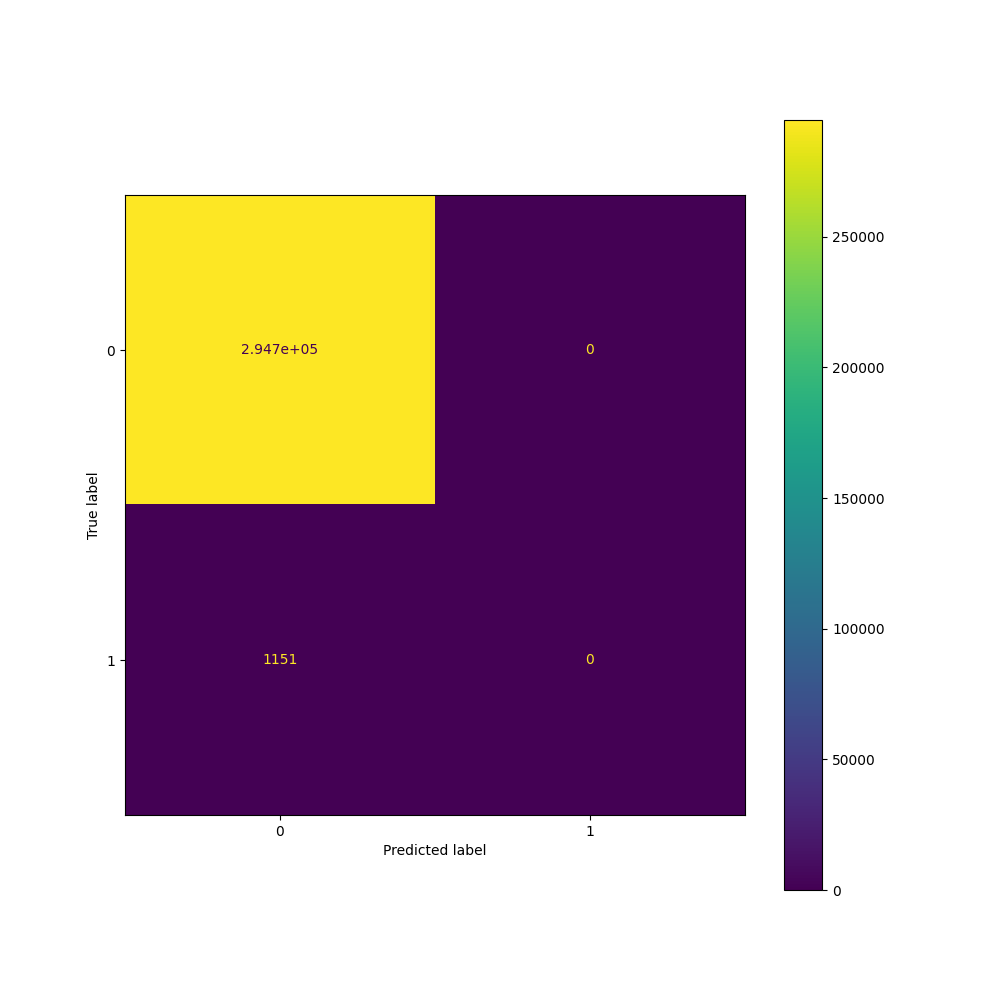
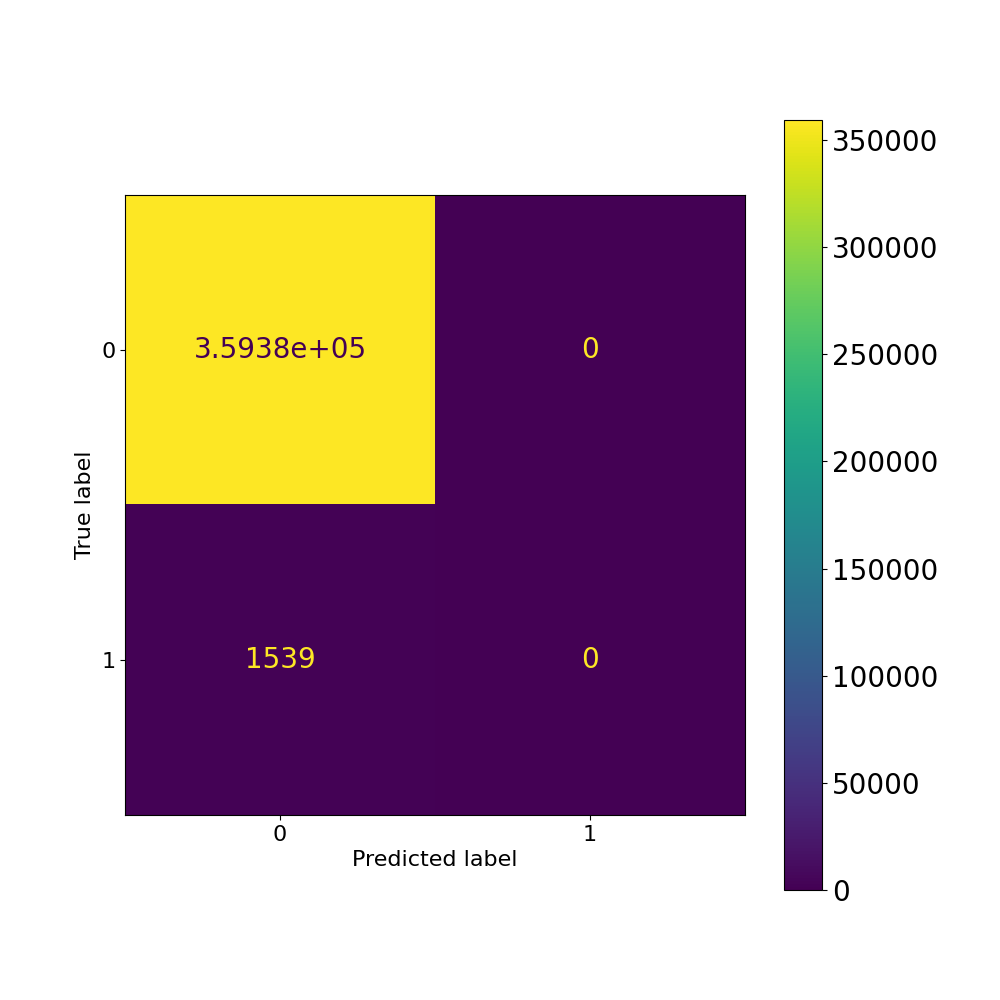
updated results

diff --git a/lstm_autoencoder.py b/lstm_autoencoder.py
@@ -3,7 +3,7 @@ from torch import nn
 import torch
 import matplotlib.pyplot as plt
 import numpy as np
-from sklearn.metrics import ConfusionMatrixDisplay, precision_score, recall_score, f1_score
+from sklearn.metrics import ConfusionMatrixDisplay
 from pump_and_dump_dataset import PumpAndDumpDataset
 from torch.utils.data import DataLoader
 
@@ -89,7 +89,7 @@ def compute_metrics(cm):
     tp = cm[1][1]
     total = tn + fp + fn + tp
 
-    accuracy = tn + tp / total * 100
+    accuracy = (tn + tp) / total * 100
     precision = tp / (tp + fp)
     recall = tp / (tp + fn)
     f1 = 2 * precision * recall / (precision + recall)
@@ -103,10 +103,11 @@ def find_best_threshold(val_dataloader, loss_fn, model):
     bestThreshold = 0
 
     with torch.no_grad():
+
         for t in thresholds:
-            for m in range(0, 100, 2):
-                t = t + t * m
-                pred, Y = zip(*[(predictPumpAndDump(X, model, loss_fn, t), Y.int().numpy())
+            for m in np.arange(0, 100, 1):
+                tm = t * sqrt(m)
+                pred, Y = zip(*[(predictPumpAndDump(X, model, loss_fn, tm), Y.int().numpy())
                                 for (X, Y) in val_dataloader])
                 pred = np.concatenate(pred)
                 Y = np.concatenate(Y)
@@ -114,20 +115,8 @@ def find_best_threshold(val_dataloader, loss_fn, model):
                 _, _, _, _, f1 = compute_metrics(cm)
 
                 if highestScore < f1:
-                    bestThreshold = t
+                    bestThreshold = tm
                     highestScore = f1
-
-            # t = bestThreshold * m
-
-            # pred, Y = zip(*[(predictPumpAndDump(X, model, loss_fn, t), Y.int().numpy())
-            #                 for (X, Y) in val_dataloader])
-            # pred = np.concatenate(pred)
-            # Y = np.concatenate(Y)
-            # cm = get_confusion_matrix(pred, Y)
-            # _, _, _, _, f1 = compute_metrics(cm)
-
-            # if highestScore < f1:
-            #     bestThreshold = t
 
     return bestThreshold
 
@@ -163,6 +152,7 @@ def evaluate_split_size(split_size, hidden_size, epochs, learning_rate, momentum
         model.parameters(), lr=learning_rate, momentum=momentum)
 
     # Run Training
+    print(f"Running for window size of: {split_size} ---")
     lossList = []
     for i in range(epochs):
         print(f"Epoch: {i}")
@@ -171,6 +161,7 @@ def evaluate_split_size(split_size, hidden_size, epochs, learning_rate, momentum
 
     # Plot Loss Curve
     plt.title("Training Loss")
+    plt.rcParams.update({'font.size': 16})
     plt.plot(range(epochs), lossList)
     plt.savefig(f"images/training_loss_lstm_encoder-{split_size}.png")
     plt.close()
@@ -189,15 +180,10 @@ def evaluate_split_size(split_size, hidden_size, epochs, learning_rate, momentum
 
     cmp = ConfusionMatrixDisplay(confusion_matrix=confusion_matrix)
     fig, ax = plt.subplots(figsize=(10, 10))
-    cmp.plot(ax=ax, values_format=".5g")
+    plt.rcParams.update({'font.size': 20})
+    cmp.plot(ax=ax, values_format="g")
     fig.savefig(f"images/lstm_encoder-{split_size}-confusion_matrix")
     plt.close()
-
-    # accuracy = tn + tp / len(Y) * 100
-    # precision = tp / (tp + fp)
-    # recall = tp / (tp + fn)
-    # f1 = 2 * precision * recall / (precision + recall)
-    # truePercentage = (Y >= 1).sum() / len(Y) * 100
 
     truePercentage, accuracy, precision, recall, f1 = compute_metrics(
         confusion_matrix)
@@ -207,7 +193,7 @@ def evaluate_split_size(split_size, hidden_size, epochs, learning_rate, momentum
 # Config / Model Setup
 split_sizes = [60, 25, 15, 5]  # Measured in seconds
 hidden_size = 1
-epochs = 5
+epochs = 10
 learning_rate = 1e-2
 momentum = .9
 batch_size = 100

diff --git a/lstm.py b/lstm.py
@@ -52,7 +52,7 @@ def rnn_train_step(dataloader, model, loss_fn, optimizer):
     return totalLoss / totalBatches
 
 
-def evaluate_split_size(split_size, hidden_size, epochs, learning_rate, momentum):
+def evaluate_split_size(split_size, hidden_size, epochs, learning_rate, momentum, batch_size):
     # Load Data
     dataset = PumpAndDumpDataset(split_size)
     n = len(dataset)
@@ -60,8 +60,9 @@ def evaluate_split_size(split_size, hidden_size, epochs, learning_rate, momentum
     testSize = ceil(n - trainSize)
     trainSet, testSet = torch.utils.data.random_split(
         dataset, [trainSize, testSize], generator=torch.Generator().manual_seed(42))
-    train_dataloader = DataLoader(trainSet, batch_size=500, shuffle=True)
-    test_dataloader = DataLoader(testSet, batch_size=500, shuffle=True)
+    train_dataloader = DataLoader(
+        trainSet, batch_size=batch_size, shuffle=True)
+    test_dataloader = DataLoader(testSet, batch_size=batch_size, shuffle=True)
 
     _, time_series_size, features = dataset.X.shape
     LSTM_Layers = 1
@@ -81,6 +82,7 @@ def evaluate_split_size(split_size, hidden_size, epochs, learning_rate, momentum
 
     # Plot Loss Curve
     plt.title("Training Loss")
+    plt.rcParams.update({'font.size': 16})
     plt.plot(range(epochs), lossList)
     plt.savefig(f"images/training_loss_lstm-{split_size}.png")
     plt.close()
@@ -101,7 +103,8 @@ def evaluate_split_size(split_size, hidden_size, epochs, learning_rate, momentum
 
     cmp = ConfusionMatrixDisplay(confusion_matrix=confusion_matrix)
     fig, ax = plt.subplots(figsize=(10, 10))
-    # cmp.plot(ax=ax, values_format=".5g")
+    plt.rcParams.update({'font.size': 20})
+    cmp.plot(ax=ax, values_format=".5g")
     fig.savefig(f"images/lstm-{split_size}-confusion_matrix")
     plt.close()
 
@@ -119,12 +122,13 @@ def evaluate_split_size(split_size, hidden_size, epochs, learning_rate, momentum
 # Config / Model Setup
 split_sizes = [5, 15, 25, 60]  # Measured in seconds
 hidden_size = 1
-epochs = 5
-learning_rate = 1e-4
+epochs = 10
+learning_rate = 1e-2
 momentum = .9
+batch_size = 100
 
 res = [evaluate_split_size(s, hidden_size,
-                           epochs, learning_rate, momentum) for s in split_sizes]
+                           epochs, learning_rate, momentum, batch_size) for s in split_sizes]
 res_matrix = np.vstack(res)
 np.savetxt("lstm_results.csv", res_matrix, delimiter=",")
 

diff --git a/load_data.py b/load_data.py
@@ -68,7 +68,7 @@ def split_csv_data(pump_info, pump_data, split_size):
 
 
 cached_data = []
-dataset_size = 150
+dataset_size = 200
 
 
 def get_dataset(split_size):
